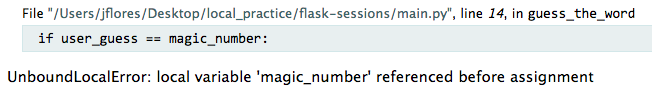
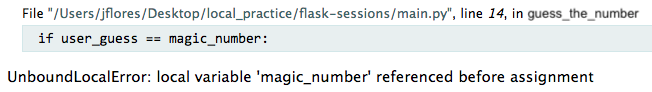
Finished first draft for chapter 23 (Cookies and Sessions).

Changed region(s): [[0.7975, 0.087, 0.9816, 0.2391]]

diff --git a/src/chapters/sessions/try-it-part2.rst b/src/chapters/sessions/try-it-part2.rst
@@ -228,9 +228,5 @@ good review of older skills.
    Checkout the ``final-code`` branch of the repository to examine one possible
    solution for the checkbox form.
 
-Demo Ideas/Notes
-----------------
-
-Bonus task: Run secondary program. This one presents a row of numerical
-buttons. Clicking these builds a string. Include a delete key to back up one
-space. This program is just for exploration, not a step-by-step walkthrough.
+   Also, the ``buttons`` branch in the repo shows one way to retrieve data from
+   a ``<button>`` element rather than an input box.

diff --git a/src/chapters/sessions/introduction.rst b/src/chapters/sessions/introduction.rst
@@ -59,8 +59,6 @@ crashes when we click *Go!*
 
    Unbound local error: ``magic_number`` referenced before assignment.
 
-.. todo:: Update the unbound local error screenshot to show correct function name.
-
 Reading the error message tells us what went wrong. In line 14,
 ``magic_number`` hasn't been assigned a value. If we think about the flow of
 the program, this might seem odd at first.

diff --git a/src/index-full.rst b/src/index-full.rst
@@ -71,6 +71,7 @@ Assignments
    assignments/console-game
    assignments/html-me-something
    assignments/communication-log
+   assignments/flask-game
 
 Appendices
 ==========

diff --git a/src/index.rst b/src/index.rst
@@ -72,6 +72,7 @@ Assignments
    assignments/console-game
    assignments/html-me-something
    assignments/communication-log
+   assignments/flask-game
 
 Appendices
 ==========

diff --git a/src/chapters/sessions/project.rst b/src/chapters/sessions/project.rst
@@ -1,4 +1,4 @@
 Project: Flask Sessions
 =======================
 
-Lorem ipsum... 
+You're ready to start :ref:`Assignment 6 <flask-game>`!

diff --git a/src/assignments/flask-game.rst b/src/assignments/flask-game.rst
@@ -1,0 +1,6 @@
+.. _flask-game:
+
+Assignment #6: Flask Game
+=========================
+
+Lorem ipsum...
